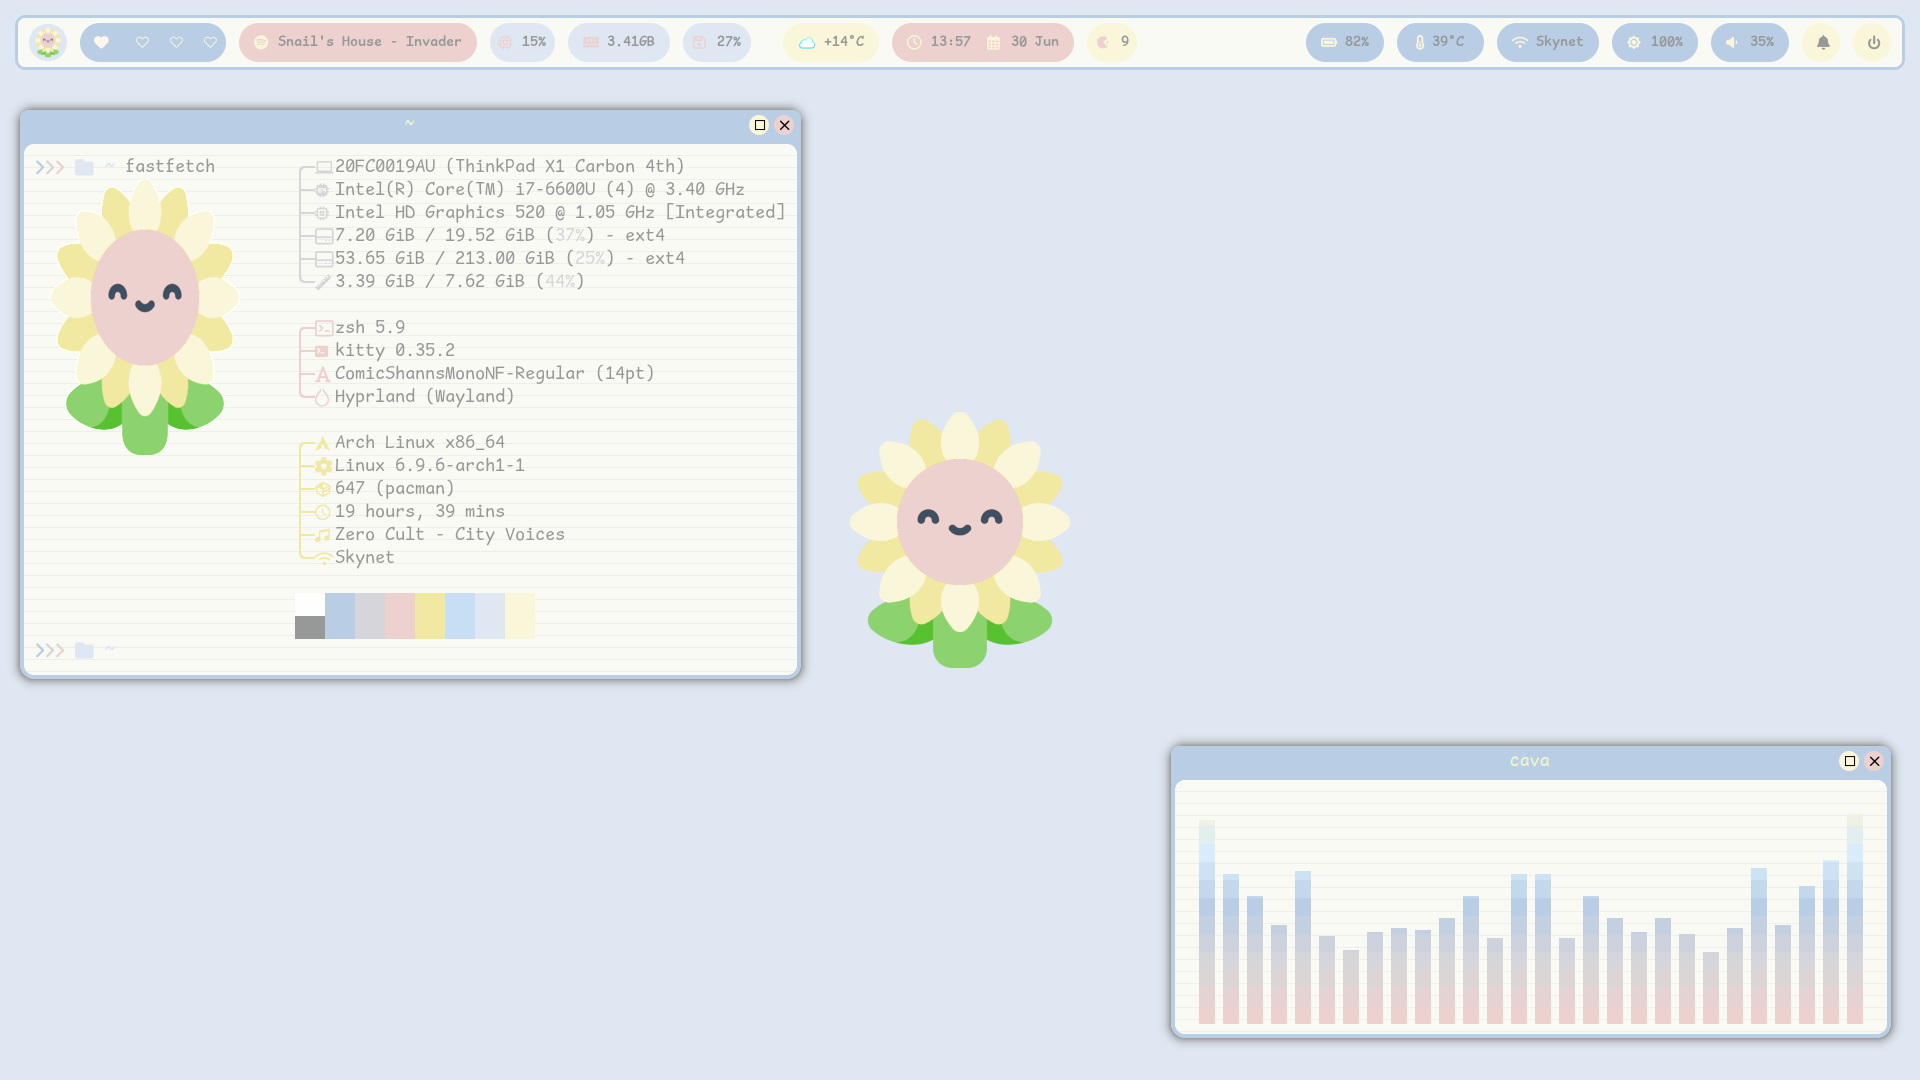
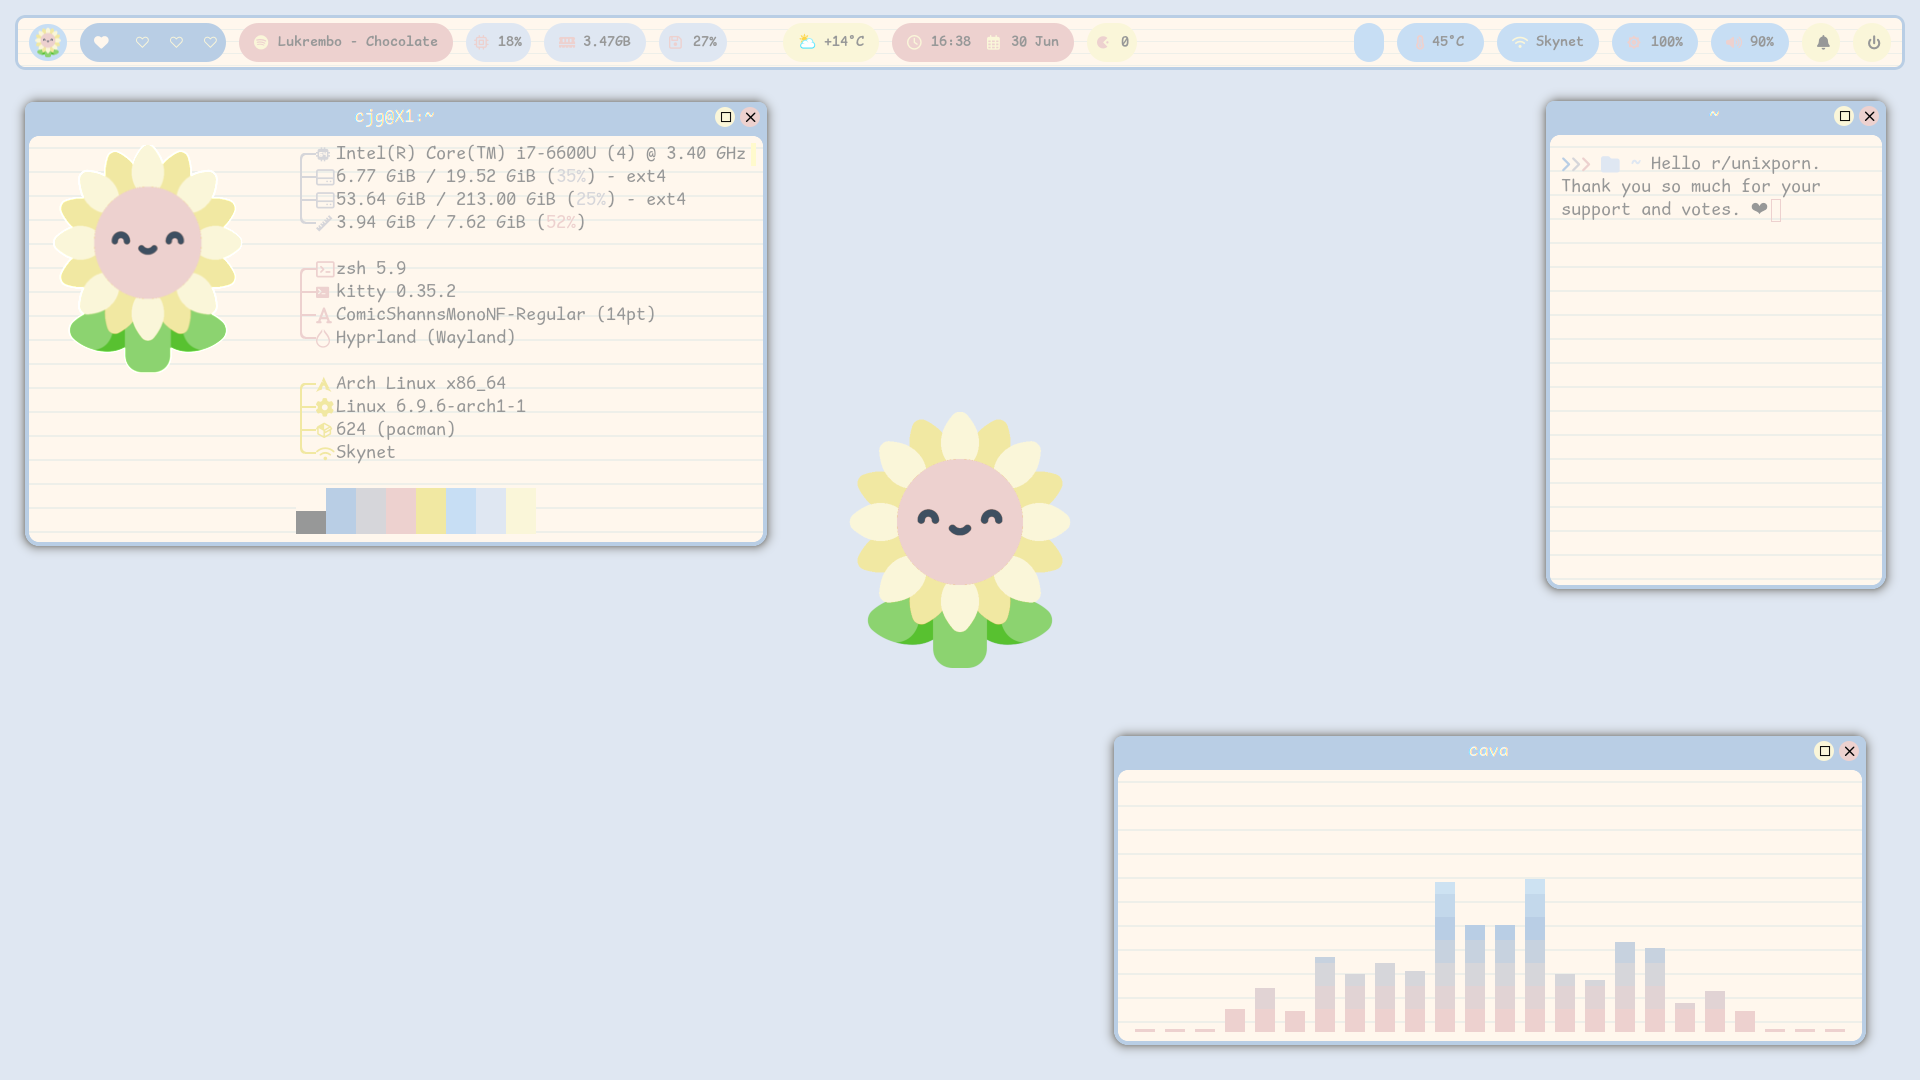
Color fixes for readability

diff --git a/sunflower/waybar/style.css b/sunflower/waybar/style.css
@@ -22,7 +22,7 @@
 
 /* The whole bar */
 #waybar { 
-    /*background-color: rgba(40, 40, 40, 1);*/
+    background-image: url("/home/cjg/Pictures/paper.png");
     background-color: #F9FAF4; 
     color: #979898;
     transition-property: background-color;
@@ -137,7 +137,7 @@ window#waybar.hidden {
   background-color: rgba(20, 27, 30, 0.0); 
   color:#83A598;
   font-size: 15px;  
-  background-color: #DFE7F2;
+  background-color: #C7DEF4;
   background-image: url("/home/cjg/Pictures/sunflower.png");
   background-size: 30px 30px;
   background-repeat: no-repeat;
@@ -221,7 +221,7 @@ tooltip,
 }
 
 #battery {
-   background-color: #B9CEE5;
+   background-color: #C7DEF4;
    color: #979898;
    border-radius: 20px;
 }
@@ -290,7 +290,7 @@ label:focus {
 }
 
 #network {
-  background-color: #B9CEE5;
+  background-color: #C7DEF4;
   color: #979898;
   border-radius: 20px;
 }
@@ -317,7 +317,7 @@ label:focus {
 }
 
 #temperature {
-  background-color: #B9CEE5;
+  background-color: #C7DEF4;
   color: #979898;
   border-radius: 20px; 
 }
@@ -348,7 +348,7 @@ label:focus {
 }
 
 #backlight {
-  background-color: #B9CEE5;
+  background-color: #C7DEF4;
   color: #979898;
   border-radius: 20px;
 }
@@ -389,7 +389,7 @@ label:focus {
 
 
 #wireplumber{
-background-color: #B9CEE5;
+background-color: #C7DEF4;
 color: #979898;
 border-radius: 20px;
 }
